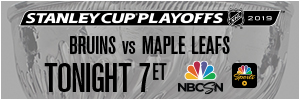
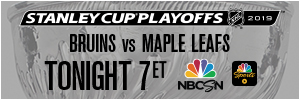
4/17 edits

diff --git a/041719_BOS-TML/html_css/SCP19_041719_BOS-TML_TONIGHT_300x100/style.css b/041719_BOS-TML/html_css/SCP19_041719_BOS-TML_TONIGHT_300x100/style.css
@@ -75,7 +75,7 @@ body{
 	#logo_nbcsn {
 		position: absolute;
 		left: 178px;
-		top: 60px;	
+		top: 58px;	
 		width: 45px;
 		height: 35px;
 		background-image: url(images/logo_nbcsn.png);
@@ -84,7 +84,7 @@ body{
 	#logo_app {
 		position: absolute;
 		left: 232px;
-		top: 63px;	
+		top: 61px;	
 		width: 25px;
 		height: 25px;
 		background-image: url(images/logo_app.png);
@@ -102,7 +102,7 @@ body{
 	#teams {
 		position: absolute;
 		left: 70px;
-		top: 36px;	
+		top: 34px;	
 		width: 160px;
 		height: 18px;
 		background-image: url(images/teams.png);
@@ -111,7 +111,7 @@ body{
 	#tunein {
 		position: absolute;
 		left: 44px;
-		top: 63px;	
+		top: 61px;	
 		width: 123px;
 		height: 29px;
 		background-image: url(images/tunein_tonight.png);

diff --git a/041719_BOS-TML/html_css/SCP19_041719_BOS-TML_WATCH-NOW_300x100/style.css b/041719_BOS-TML/html_css/SCP19_041719_BOS-TML_WATCH-NOW_300x100/style.css
@@ -75,7 +75,7 @@ body{
 	#logo_nbcsn {
 		position: absolute;
 		left: 178px;
-		top: 60px;	
+		top: 58px;	
 		width: 45px;
 		height: 35px;
 		background-image: url(images/logo_nbcsn.png);
@@ -84,7 +84,7 @@ body{
 	#logo_app {
 		position: absolute;
 		left: 232px;
-		top: 63px;	
+		top: 61px;	
 		width: 25px;
 		height: 25px;
 		background-image: url(images/logo_app.png);
@@ -102,7 +102,7 @@ body{
 	#teams {
 		position: absolute;
 		left: 70px;
-		top: 36px;	
+		top: 34px;	
 		width: 160px;
 		height: 18px;
 		background-image: url(images/teams.png);
@@ -111,7 +111,7 @@ body{
 	#tunein {
 		position: absolute;
 		left: 42px;
-		top: 63px;	
+		top: 61px;	
 		width: 127px;
 		height: 29px;
 		background-image: url(images/tunein_now.png);
